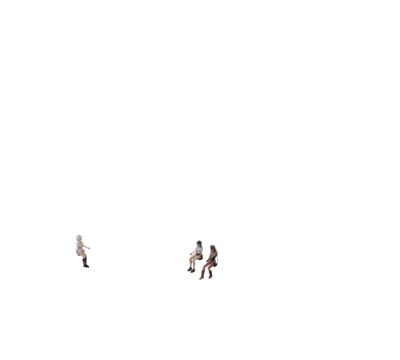
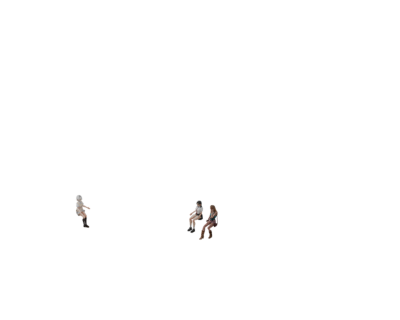
Chatka: domek na 3/4 v severnim rohu, kytky kolem, u zdi holka v tilku
Hrac: "zmensi domek a na usetrenem miste vysazej kytky okolo. za domek
kytky nesazej, domek i s holkou u dveri posunem smerem od lavicky".
Domek zmenseny na 0,75 (11 x 11 m, 12,4 m vysoky, dvere 2,5 m) a
posunuty do severniho rohu zadniho policka. Na uvolnenem miste vpredu
19 vyssich rostlin marihuany, ne za domkem, ne na cestu ke dverim a
k pate schodu, ne pred holku u zdi. Misto holky u zdi se bere z
brectanu na zdi, kytky se vyhybaji domku podle jeho vrcholu a paprsku
nahoru (schody, balkon, striska).

U zdi misto bile Galaxie Character Girl (hrac: "ke zdi dej jinou ne tu
colege, dej tam tu co chodi na jihozapadu. ta bila holka splyva se
zdi"), Galaxia stoji misto ni u branky. Obrazek je nizsi (400 x 320,
v 8x 800 x 640), rohy jsou jinde, zmenilo se vsech sest obrazku.

Claude-Session: https://claude.ai/code/session_01P6zYdmMEQjTTZJyV6Qb8Ch

Changed region(s): [[0.45, 0.625, 0.57, 0.7812], [0.18, 0.5938, 0.24, 0.75]]

diff --git a/chatka/render_chatka.py b/chatka/render_chatka.py
@@ -4,8 +4,10 @@
 # prilozenejma. chci tam hlavne tu holku co stoji u kufru dvanacetrojky bus", "velikost 1 policko ... muze to byt pres
 # dve policka nebo pres ctyri policka, to je jedno. ale holky prikladaci at usetrime Mb".
 # Domek: "A little happy hut" od Tigrana Safaryana (Sketchfab, CC BY 4.0, model/a_little_happy_hut.glb). Holky jsou jako
-# u sochy a u kufru 1203 dvakrat vetsi, domek je proto zvetseny tak, aby dvere (v modelu 76 jednotek) mely 3,35 m a holka
-# (College Girl 3,24 m) prosla; tim zabere cele zadni policko, vpredu je druhe policko s dvorkem.
+# u sochy a u kufru 1203 dvakrat vetsi, domek byl proto zvetseny tak, aby dvere (v modelu 76 jednotek) mely 3,35 m a holka
+# (College Girl 3,24 m) prosla; tim zabral cele zadni policko, vpredu je druhe policko s dvorkem. Od 3. 10. (hrac: "zmensi
+# domek a na usetrenem miste vysazej kytky okolo") je domek zmenseny na ZMENSENI (0,75, dvere 2,5 m), posunuty k severnimu
+# rohu a vpredu kolem nej jsou vyssi rostliny marihuany.
 # Souradnice jako ve hre: x k jihozapadu, y k jihovychodu, z nahoru, pocatek v severnim rohu pozemku (2 policka podel x:
 # x 0 az 2T, y 0 az T). Kamera, svetlo a slabe stiny jako u sochy (socha/render_socha.py).
 #   [ZIN=8] [SAMPLES=128] python3 render_chatka.py <vystupni adresar>      -> chatka[_stojici|_sedici]_zin4.png + .json
@@ -25,6 +27,8 @@ NAHLED = os.environ.get("NAHLED", "0") == "1"
 TU = os.path.dirname(os.path.abspath(__file__))
 HDRI = os.path.join(TU, "..", "glb", "GLB", "hdri", "snow.exr")
 DVERE_M, DVERE_J = 3.35, 76.0                  # vyska dveri v prizemi: chceme metry, v modelu jednotek
+ZMENSENI = float(os.environ.get("ZMENSENI", "0.75"))   # hrac 3. 10.: "zmensi domek" (dvere 3,35 m * 0,75 = 2,5 m)
+OKRAJ_D = 0.3                                  # zmenseny domek u severniho rohu: od zadnich hran pozemku
 os.makedirs(VYSTUP, exist_ok=True)
 
 def B(x, y, z=0.0):
@@ -117,7 +121,7 @@ meshe_d = [o for o in domek if o.type == 'MESH']
 bpy.context.view_layer.update()
 P = np.vstack([np.array([o.matrix_world @ v.co for v in o.data.vertices]) for o in meshe_d])
 mn_d, mx_d = P.min(axis=0), P.max(axis=0)
-S_D = DVERE_M / DVERE_J
+S_D = DVERE_M / DVERE_J * ZMENSENI
 stred_d = (mn_d + mx_d) / 2
 # otoceni o 90 st: dvere (stena -x modelu) k jihozapadu na dvorek, schody (strana -y modelu) k jihovychodu k divakovi
 obal = bpy.data.objects.new("domek", None); scene.collection.objects.link(obal)
@@ -129,8 +133,26 @@ bpy.context.view_layer.update()
 P = np.vstack([np.array([o.matrix_world @ v.co for v in o.data.vertices]) for o in meshe_d])
 # v souradnicich hry: x = -Blender y, y = Blender x
 hx0, hx1, hy0, hy1 = -P[:, 1].max(), -P[:, 1].min(), P[:, 0].min(), P[:, 0].max()
+# hrac: "domek i s holkou u dveri posunem smerem od lavicky na usetrene misto": k severnimu rohu, usetrene misto je pak
+# jen vpredu u jihozapadni a jihovychodni strany (tam kytky), vzadu nic
+POSUN_D = (OKRAJ_D - hx0, OKRAJ_D - hy0)
+obal.matrix_world = Matrix.Translation(B(POSUN_D[0], POSUN_D[1], 0.0)) @ obal.matrix_world
+bpy.context.view_layer.update()
+P = np.vstack([np.array([o.matrix_world @ v.co for v in o.data.vertices]) for o in meshe_d])
+hx0, hx1, hy0, hy1 = -P[:, 1].max(), -P[:, 1].min(), P[:, 0].min(), P[:, 0].max()
 print(f"domek: meritko {S_D:.5f} m/jednotku, x {hx0:.2f}..{hx1:.2f}, y {hy0:.2f}..{hy1:.2f}, vyska {P[:, 2].max():.2f} m", flush=True)
 DOMEK = list(meshe_d)
+def body_hry(o, z_max=None):
+    """vrcholy objektu v souradnicich hry (x, y, z), pripadne jen do vysky z_max"""
+    a = np.zeros(len(o.data.vertices) * 3); o.data.vertices.foreach_get("co", a)
+    Q = (np.c_[a.reshape(-1, 3), np.ones(len(a) // 3)] @ np.array(o.matrix_world).T)[:, :3]
+    Q = np.c_[-Q[:, 1], Q[:, 0], Q[:, 2]]
+    return Q if z_max is None else Q[Q[:, 2] < z_max]
+# misto holky u zdi: pred popinavymi rostlinami na jihozapadni zdi vpravo od dveri (sit "Ivy_", "Ivy 2" je vzadu),
+# 0,75 m pred listy u zeme, uprostred jejich sirky
+Q = body_hry([o for o in meshe_d if o.name.startswith("Ivy_")][0], 2.0)
+U_ZDI = (float(Q[:, 0].max()) + 0.75, float((Q[:, 1].min() + Q[:, 1].max()) / 2))
+print("holka u zdi", tuple(round(v, 2) for v in U_ZDI), flush=True)
 
 # ---------------------------------------------------------------- dvorek: uslapana zem, lavicky, neporadek
 X0 = T                                           # dvorek: x T az 2T, y 0 az T
@@ -216,7 +238,7 @@ sys.path.insert(0, os.path.join(TU, "..", "rostliny"))
 import rostliny as RO
 KOSATA = RO.nacti("cannabis_sativa_plant"); STIHLA = RO.nacti("cannabis_plant")
 rnd_p = random.Random(23)
-ROSTLINY = []
+ROSTLINY = []; PLOT_BODY = []
 def rada(body_od, body_do, krok, vynechat):
     """rostliny v rade od-do po kroku, indexy ve `vynechat` jsou diry"""
     (xa, ya), (xb, yb) = body_od, body_do
@@ -228,12 +250,59 @@ def rada(body_od, body_do, krok, vynechat):
         vys = rnd_p.uniform(1.0, 1.3) * K                     # nizke smrcky: skutecne 1 az 1,3 m
         druh = KOSATA if rnd_p.random() < 0.7 else STIHLA
         ROSTLINY.extend(RO.postav(druh[0], druh[1], Matrix.Translation(B(x, y, 0)), vys, 0.42 * K, rnd_p.random() * 6.3))
+        PLOT_BODY.append((x, y))
 OKRAJ = 1.0                                                   # stred rostliny od hrany pozemku (koruna 0,42*K = 0,84 m, posun 0,12)
 # jihovychodni hrana celeho pozemku (vpredu vpravo), jihozapadni hrana dvorku (vpredu vlevo), severozapadni hrana dvorku
 rada((OKRAJ + 0.4, T - OKRAJ), (2 * T - OKRAJ, T - OKRAJ), 1.45, {3, 11, 16})
 rada((2 * T - OKRAJ, OKRAJ), (2 * T - OKRAJ, T - OKRAJ - 1.0), 1.45, {4, 5})          # siroka dira = branka k dverim
 rada((X0 + 0.6, OKRAJ), (2 * T - OKRAJ - 1.0, OKRAJ), 1.45, {6})
-print("rostlin v plotu:", len(ROSTLINY) // max(1, len(KOSATA[0])), flush=True)
+print("rostlin v plotu:", len(PLOT_BODY), flush=True)
+
+# ---------------------------------------------------------------- kytky kolem zmenseneho domku
+# Hrac 3. 10.: "na usetrenem miste vysazej kytky okolo. za domek kytky nesazej". Rostliny marihuany jako v plotu, jen
+# vyssi (skutecne 1,1 az 1,7 m), na usetrenem miste pred jihozapadni a jihovychodni stranou domku: ne do domku a za nej,
+# ne ke zdem, schudkum a sloupkum, ne pod schody, balkon a strisku, ne na cestu od schudku ke dverim a od paty schodu
+# na balkon na dvorek a ne mezi kameru a holku u zdi.
+from mathutils import kdtree
+dum_zem = np.vstack([body_hry(o, 1.5)[::2, :2] for o in meshe_d])
+kd = kdtree.KDTree(len(dum_zem))
+for i, (x, y) in enumerate(dum_zem): kd.insert((x, y, 0.0), i)
+kd.balance()
+dg = bpy.context.evaluated_depsgraph_get()
+def nad_hlavou(x, y):
+    """jak vysoko je nad bodem neco z domku (schody, balkon, striska, strecha), jinak nekonecno"""
+    hit, loc, _, _, ob, _ = scene.ray_cast(dg, B(x, y, 0.05), Vector((0, 0, 1)))
+    return loc.z if hit and ob in meshe_d else float("inf")
+def z_puvodniho(x, y):
+    """bod domku v puvodni velikosti a poloze (do 3. 10.) -> na zmenseny a posunuty domek"""
+    return (C_D[0] + POSUN_D[0] + (x - C_D[0]) * ZMENSENI, C_D[1] + POSUN_D[1] + (y - C_D[1]) * ZMENSENI)
+ZED_X, ZED_Y = z_puvodniho(10.58, 9.5)                                        # jihozapadni zed a jihovychodni roh
+sx, sy0 = z_puvodniho(12.72, 3.5); _, sy1 = z_puvodniho(12.72, 6.25)          # schudky ke dverim (kraj, sirka)
+px_, py0 = z_puvodniho(14.18, 12.0); _, py1 = z_puvodniho(14.18, 14.5)       # pata schodu na balkon
+CESTY = [(sx - 0.3, T + 1.0, sy0 - 0.5, sy1 + 0.5), (px_ - 0.6, T + 1.0, py0 - 0.5, py1 + 0.5)]
+def pred_holkou(x, y):
+    """zakryla by rostlina holku u zdi? kamera je ve smeru +x +y, 30 st. nad zemi"""
+    dx, dy = x - U_ZDI[0], y - U_ZDI[1]
+    vpred, bok = (dx + dy) / math.sqrt(2), abs(dx - dy) / math.sqrt(2)
+    return math.hypot(dx, dy) < 1.3 or (0 < vpred < 6.0 and bok < 1.5)
+rnd_k = random.Random(31)
+KYTKY = []
+for i in range(int(T / 1.3) + 1):
+    for j in range(int(T / 1.3) + 1):
+        x, y = 0.7 + i * 1.3 + rnd_k.uniform(-0.25, 0.25), 0.7 + j * 1.3 + rnd_k.uniform(-0.25, 0.25)
+        vys = rnd_k.uniform(1.1, 1.7) * K
+        if x > T - 0.35 or y > T - OKRAJ - 1.35: continue                     # jen zadni policko, ne do plotu
+        if x < ZED_X + 0.3 and y < ZED_Y + 0.3: continue                        # v domku nebo za nim
+        if kd.find((x, y, 0.0))[2] < 0.8: continue                             # ke zdem, schudkum, sloupkum
+        if any(a <= x <= b and c <= y <= d for a, b, c, d in CESTY): continue
+        if pred_holkou(x, y): continue
+        if min(math.hypot(x - qx, y - qy) for qx, qy in PLOT_BODY) < 1.3: continue
+        if min(nad_hlavou(x + ox, y + oy) for ox, oy in ((0, 0), (0.6, 0), (-0.6, 0), (0, 0.6), (0, -0.6))) < vys + 0.3:
+            continue                                                            # pod schody, balkonem, striskou
+        druh = KOSATA if rnd_k.random() < 0.6 else STIHLA
+        ROSTLINY.extend(RO.postav(druh[0], druh[1], Matrix.Translation(B(x, y, 0)), vys, 0.36 * K, rnd_k.random() * 6.3))
+        KYTKY.append((round(x, 2), round(y, 2)))
+print("kytek kolem domku:", len(KYTKY), KYTKY, flush=True)
 
 # ---------------------------------------------------------------- holky (prikladaci vrstvy)
 sys.path.insert(0, os.path.join(TU, "..", "postavy"))
@@ -251,16 +320,17 @@ def na_lavicku(meshe, kotva, lav, u):
     v = 0.05
     do_sceny(meshe, kotva, x + (u * -s + v * -c) * K, y + (u * c + v * -s) * K, 0.47 * K, uhel)
 STOJICI, SEDICI = [], []
-# stojici: holka od kufru 1203 (College Girl, ruce podel tela) na dvorku, Character Girl s kabelkou prichazi brankou
+# stojici: holka od kufru 1203 (College Girl, ruce podel tela) na dvorku. U zdi domku pred popinavymi rostlinami vpravo
+# od dveri (hrac 3. 10.: "jeste jednu ... za severovychodni lavicku ke dverim domku", "pred popinavy rostliny na zdi
+# ji postav") jde Character Girl s kabelkou, celem k divakovi (hrac: "ke zdi dej jinou ne tu colege, dej tam tu co chodi
+# na jihozapadu. ta bila holka splyva se zdi"). Bila Galaxia (ruce podel tela jako u automatu) stoji misto ni u branky
+# na hline.
 cg = PO.nacti_stojici("college_girl", 1.62, "ruce_dolu")
 do_sceny(cg, Vector((0, 0, 0)), X0 + 2.6, 6.2, 0.012, math.radians(-35)); STOJICI += cg
 ch = PO.nacti_stojici("character_people_girl_001", 1.68)
-do_sceny(ch, Vector((0, 0, 0)), X0 + 9.8, 7.4, 0.012, math.radians(-200)); STOJICI += ch     # = 160 st, ale cislo jako predtim
-# treti stojici, hrac 3. 10.: "jeste jednu ... na druhe policko k domku za severovychodni lavicku ke dverim domku",
-# "pred popinavy rostliny na zdi ji postav". Galaxia jako u automatu (ruce podel tela) na zadnim policku pred
-# brectanem na jihozapadni zdi vpravo od dveri (zed x 10,58, brectan u zeme y 6,8 az 9,4), celem k dvorku
+do_sceny(ch, Vector((0, 0, 0)), U_ZDI[0], U_ZDI[1], 0.0, math.radians(45)); STOJICI += ch
 ga_st = PO.nacti_stojici("galaxia_anime_girl", 1.58, "ruce_dolu")
-do_sceny(ga_st, Vector((0, 0, 0)), 11.5, 8.1, 0.0, math.radians(25)); STOJICI += ga_st
+do_sceny(ga_st, Vector((0, 0, 0)), X0 + 9.8, 7.4, 0.012, math.radians(120)); STOJICI += ga_st
 # sedici: College Girl a Character Girl na lavicce u domku, Galaxia na druhe (zapadni), vsechny celem od operadla
 cg2, k2 = PO.sedici("college_girl"); na_lavicku(cg2, k2, LAV_1, -0.42); SEDICI += cg2
 ch2, kc = PO.sedici("character_people_girl_001"); na_lavicku(ch2, kc, LAV_1, 0.4); SEDICI += ch2

diff --git a/chatka/README.md b/chatka/README.md
@@ -9,13 +9,16 @@ to být přes dvě políčka nebo přes čtyři políčka, to je jedno. ale holk
   https://sketchfab.com/3d-models/a-little-happy-hut-045afe84e4c04400a34f0babab201378 ), poslal ho hráč 3. 10.
   V gitu není (11 MB), patří do `model/a_little_happy_hut.glb` (md5 `d6cc13aa08652713f703ff08ad84a517`). Domek se
   nemění, jen se zvětší a otočí: dveře na dvorek, schody na balkon k divákovi.
-- **Proč 2 políčka:** holky jsou jako u sochy a u kufru 1203 dvakrát větší (College Girl má 3,24 m). Aby holka prošla
-  dveřmi, mají dveře 3,35 m. Domek pak má 14,7 × 14,6 m a 16,6 m na výšku, tedy sám zabere celé jedno políčko.
-  Lavičky a nepořádek jsou na druhém políčku (vpředu vlevo), to je dvorek. Kdyby bylo všechno na jednom políčku,
-  musel by být domek menší a holky by byly větší než dveře.
-- **Dvorek:** ušlapaná hlína, dvě lavičky jako u sochy (dvakrát větší), nepořádek: dvě bedny na sobě, převrhlá
-  bedna, hromada prken, dvě pneumatiky, kyblík a asi sto odpadků (papíry, plechovky, lahve, kelímky, sáčky, zelené
-  balíčky).
+- **Velikost:** holky jsou jako u sochy a u kufru 1203 dvakrát větší (College Girl má 3,24 m). Domek byl nejdřív tak
+  velký, aby holka prošla dveřmi (dveře 3,35 m, domek 14,7 × 14,6 m, 16,6 m na výšku, celé jedno políčko). Hráč pak
+  chtěl menší, takže je zmenšený na tři čtvrtiny: 11 × 11 m, 12,4 m na výšku, dveře 2,5 m. Stojí v severním rohu
+  zadního políčka, 0,3 m od zadních hran.
+- **Kytky kolem domku:** 19 vyšších rostlin marihuany (stejné jako v plotu, skutečně 1,1 až 1,7 m, na obrázku dvakrát
+  větší) na uvolněném místě před jihozápadní a jihovýchodní stranou domku. Za domkem nejsou, nestojí na cestě od
+  schůdků ke dveřím ani od paty schodů na balkon a nezakrývají holku u zdi.
+- **Dvorek** (přední políčko): ušlapaná hlína, dvě lavičky jako u sochy (dvakrát větší), nepořádek: dvě bedny na sobě,
+  převrhlá bedna, hromada prken, dvě pneumatiky, kyblík a asi sto odpadků (papíry, plechovky, lahve, kelímky, sáčky,
+  zelené balíčky).
 - **Plot:** 31 nízkých rostlin marihuany místo plotu (Cannabis Sativa plant a Cannabis Plant jako u sochy, skutečně
   1 až 1,3 m, na obrázku dvakrát větší) podél přední pravé hrany celého pozemku a kolem dvorku. Sem tam je díra,
   vlevo široká jako branka k dveřím.
@@ -25,25 +28,26 @@ to být přes dvě políčka nebo přes čtyři políčka, to je jedno. ale holk
 
 | soubor | co to je |
 |---|---|
-| `chatka_zin4.png` | chatka bez holek, 400 × 360 px, 32 bpp s průhledností, přiblížení 4× |
+| `chatka_zin4.png` | chatka bez holek, 400 × 320 px, 32 bpp s průhledností, přiblížení 4× |
 | `chatka_stojici_zin4.png` | přikládací vrstva se stojícími holkami, stejně velká, jinde průhledná |
 | `chatka_sedici_zin4.png` | přikládací vrstva se sedícími holkami |
-| `chatka_zin8.png`, `chatka_stojici_zin8.png`, `chatka_sedici_zin8.png` | totéž v 8× (jen naše hra, `zin8`), 800 × 720 px, přesně dvojnásobek 4× |
+| `chatka_zin8.png`, `chatka_stojici_zin8.png`, `chatka_sedici_zin8.png` | totéž v 8× (jen naše hra, `zin8`), 800 × 640 px, přesně dvojnásobek 4× |
 | `*.json` | rohy pozemku na obrázku (`rohy`), počet políček (`policek`: 2 podél x, 1 podél y), u vrstev i `holky_obdelnik` |
 | `nahled_ve_hre.png` | chatka se stojícími holkami ve fotce ze zkušební hry (políčka 45–46 × 16) |
 | `animace_ve_hre.gif` | totéž, střídá se bez holek, stojící a sedící |
 
-- **Rohy pozemku ve 4×:** sever (264, 160), východ (392, 224), západ (8, 288), jih (136, 352). V 8× je všechno
-  dvakrát: (528, 320), (784, 448), (16, 576), (272, 704).
-- Pozemek jsou 2 políčka podél x (k jihozápadu) a 1 podél y. Zadní políčko (u severního rohu) je domek, přední
-  (u západního rohu) dvorek.
+- **Rohy pozemku ve 4×:** sever (264, 120), východ (392, 184), západ (8, 248), jih (136, 312). V 8× je všechno
+  dvakrát: (528, 240), (784, 368), (16, 496), (272, 624).
+- Pozemek jsou 2 políčka podél x (k jihozápadu) a 1 podél y. Zadní políčko (u severního rohu) je domek s kytkami,
+  přední (u západního rohu) dvorek.
 - Render 2 : 1, políčko 256 × 128 px (ve 4×), severní roh na celém pixelu dělitelném 4, jako gymnázium a pole.
 
 ## Holky (přikládací vrstvy)
 
-- **Stojící:** holka od kufru 1203 busu (College Girl, ruce podél těla) stojí na dvorku, holka v tyrkysovém tílku
-  s kabelkou (Character Girl) jde od branky k domku a bělovlasá Galaxia (ruce podél těla jako u automatu) stojí na
-  políčku s domkem za lavičkou u domku, vpravo od schůdků ke dveřím, před popínavými rostlinami na zdi.
+- **Stojící:** holka od kufru 1203 busu (College Girl, ruce podél těla) stojí na dvorku. Holka v tyrkysovém tílku
+  s kabelkou (Character Girl) jde od zdi domku: stojí za lavičkou u domku, vpravo od schůdků ke dveřím, před
+  popínavými rostlinami na zdi, čelem k divákovi. Bělovlasá Galaxia (ruce podél těla jako u automatu) stojí u branky
+  na hlíně.
 - **Sedící:** College Girl a holka v tyrkysovém tílku na lavičce u domku, Galaxia na západní lavičce. Všechny sedí
   zády k opěradlu, čelem k dvorku.
 - **Ať se ušetří MB:** obrázek s domkem je jen jeden, holky jsou zvlášť. Vrstva má stejnou velikost a rohy jako
@@ -51,7 +55,7 @@ to být přes dvě políčka nebo přes čtyři políčka, to je jedno. ale holk
   rostlina, je z vrstvy vyříznuté, takže se vrstva jen položí navrch obrázku s domkem.
 - Holky nemají stín: ten by musel být v obrázku s domkem, kde holky nejsou.
 - `holky_obdelnik` v JSONu říká, kde ve vrstvě holky jsou (vlevo, nahoře, vpravo, dole), kdyby hra chtěla vrstvu
-  oříznout. Ve 4×: stojící [108, 209, 240, 300], sedící [75, 234, 219, 281].
+  oříznout. Ve 4×: stojící [110, 150, 245, 259], sedící [75, 194, 219, 241].
 
 ## Kontrola
 
@@ -65,7 +69,8 @@ to být přes dvě políčka nebo přes čtyři políčka, to je jedno. ale holk
 
 1. Model do `model/a_little_happy_hut.glb` (ze Sketchfabu, odkaz výš).
 2. `python3 render_chatka.py <adresář>` (4×, asi minuta) a `ZIN=8 python3 render_chatka.py <adresář>` (8×, asi dvě
-   minuty). `SAMPLES=32` na zkoušku, `NAHLED=1` rychlý náhled bez Cycles.
+   minuty). `SAMPLES=32` na zkoušku, `NAHLED=1` rychlý náhled bez Cycles. `ZMENSENI` je velikost domku proti
+   původní (teď 0,75); kytky, holka u zdi a cesty se podle ní posunou samy.
 3. Náhled ve hře: `python3 ../hra/nahled_ve_hre.py <výstup.png> chatka_zin4.png@45,16` (s holkami nejdřív položit
    vrstvu na obrázek s domkem a vedle dát kopii JSONu).
 
@@ -77,9 +82,19 @@ postav“*.
 
 - **Galaxia na západní lavičce** seděla čelem k opěradlu (nohy za ním zakryté). Chyba byla ve skriptu: postavy se
   otáčely na opačnou stranu. U lavičky u domku to nebylo poznat, protože míří přesně k jihozápadu. Opraveno, teď sedí
-  čelem k dvorku. Stojící holky mají úhly upravené tak, aby stály stejně jako předtím.
-- **Třetí stojící holka:** Galaxia stojí na políčku s domkem, necelý metr od jihozápadní zdi těsně před
-  popínavými rostlinami (u země zabírají 2,6 m zdi mezi schůdky a rohem domku), čelem k dvorku.
-- Obrázek s domkem (`chatka_zin4.png`, `chatka_zin8.png`) je beze změny, bit po bitu stejný. Změnily se jen obě
-  vrstvy s holkami ve 4× i 8×: ve stojící přibyla Galaxia (dvě původní holky stojí na místě), v sedící je otočená
-  Galaxia (dvě holky na lavičce u domku jsou stejné). Nic nepřečuhuje, 8× zmenšené na půl odpovídá 4×.
+  čelem k dvorku.
+- **Třetí stojící holka** u zdi před popínavými rostlinami byla nejdřív Galaxia (viz další oddíl).
+
+## Menší domek s kytkami a jiná holka u zdi (3. 10.)
+
+Hráč: *„teď zmenši domek a na ušetřeném místě vysázej kytky okolo. za domek kytky nesázej, domek i s holkou u dveří
+posunem směrem od lavičky na ušetřené místo. ke zdi dej jinou ne tu colege, dej tam tu co chodí na jihozapadu. ta bílá
+holka splývá se zdí“*.
+
+- Domek je zmenšený na tři čtvrtiny a posunutý dozadu do severního rohu, dál od lavičky. Uvolněné místo je vpředu
+  u jihozápadní a jihovýchodní strany a jsou tam kytky (rostliny marihuany), za domkem žádné.
+- U zdi před popínavými rostlinami stojí místo bílé Galaxie holka v tyrkysovém tílku, která chodila na jihozápadě
+  u branky. Posunula se s domkem, stojí zase těsně před rostlinami na zdi.
+- Galaxia stojí na jejím místě u branky, na hnědé hlíně nesplývá.
+- Změnilo se všechno: obrázek s domkem je nižší (400 × 320 místo 400 × 360, v 8× 800 × 640), rohy v JSONu jsou jinde
+  (o 40 px výš ve 4×) a obě vrstvy s holkami jsou nové.

diff --git a/AUTORI-MODELU.md b/AUTORI-MODELU.md
@@ -345,11 +345,11 @@ RZD livery: textures from "Teplovoz-m62 РЖД" by Leafia dev.
   https://sketchfab.com/3d-models/a-little-happy-hut-045afe84e4c04400a34f0babab201378 , licence **CC BY 4.0**
   (podle metadat v souboru). Poslal ho hráč 3. 10. v chatu, v gitu není (`chatka/model/`, 11 MB).
 - **Holky** v přikládacích vrstvách (`chatka/chatka_stojici_zin*.png`, `chatka/chatka_sedici_zin*.png`): College Girl
-  (Rotmill) stojí na dvorku a sedí na lavičce, Character People Girl 001 (kiemtruongkts) jde od branky a sedí na
-  lavičce, Galaxia anime girl (Tatenashi) stojí před popínavými rostlinami na zdi domku a sedí na západní lavičce.
+  (Rotmill) stojí na dvorku a sedí na lavičce, Character People Girl 001 (kiemtruongkts) jde od zdi domku (před
+  popínavými rostlinami) a sedí na lavičce, Galaxia anime girl (Tatenashi) stojí u branky a sedí na západní lavičce.
   Všechny CC BY 4.0, z `postavy/` jako u sochy.
-- **Plot:** Cannabis Sativa plant (Zbrojmistrz) a Cannabis Plant (streetpharmacy), CC BY 4.0, z `rostliny/` jako
-  u sochy.
+- **Plot a kytky kolem domku:** Cannabis Sativa plant (Zbrojmistrz) a Cannabis Plant (streetpharmacy), CC BY 4.0,
+  z `rostliny/` jako u sochy.
 - Dvorek (hlína, lavičky, bedny, prkna, pneumatiky, kyblík, odpadky) je vlastní ze skriptu `chatka/render_chatka.py`.
 
 Uvedení pro hru:
@@ -369,6 +369,6 @@ Plants: "Cannabis Sativa plant" by Zbrojmistrz
 "Cannabis Plant" by streetpharmacy
     https://sketchfab.com/3d-models/cannabis-plant-79fe78fd6c6a426b8584115e772a5818
 All licensed under CC BY 4.0, https://creativecommons.org/licenses/by/4.0/
-Changes: the hut scaled and turned, a yard with benches, junk and a fence of plants added, the figures posed
+Changes: the hut scaled and turned, a yard with benches, junk, plants and a fence of plants added, the figures posed
 (standing, sitting) and scaled, plants recoloured and scaled, rendered into the sprite.
 ```

diff --git a/hra/zarovnani-budov/ODPOVED-PRO-HRU.md b/hra/zarovnani-budov/ODPOVED-PRO-HRU.md
@@ -192,3 +192,16 @@ k domku za severovýchodní lavičku ke dveřím domku“*, *„před popínavý
   s domkem je bit po bitu stejný, rohy i velikost taky.
 - Ve stojící vrstvě přibyla Galaxia na zadním políčku před zdí domku (popínavé rostliny vpravo od dveří), v sedící
   vrstvě sedí Galaxia na západní lavičce čelem k dvorku (předtím seděla čelem k opěradlu).
+
+## Chatka: menší domek s kytkami, jiné rohy (3. 10.)
+
+Hráč: *„teď zmenši domek a na ušetřeném místě vysázej kytky okolo. za domek kytky nesázej, domek i s holkou u dveří
+posunem směrem od lavičky na ušetřené místo. ke zdi dej jinou ne tu colege, dej tam tu co chodí na jihozapadu“*.
+
+- **Změnilo se všech šest obrázků chatky** (`chatka/chatka_zin4.png`, `chatka_stojici_zin4.png`,
+  `chatka_sedici_zin4.png` a totéž `_zin8`). Prosím rozkrájet znovu.
+- **Obrázek je nižší a rohy jsou jinde:** 400 × 320 (8× 800 × 640), rohy ve 4× sever (264, 120), východ (392, 184),
+  západ (8, 248), jih (136, 312), v 8× dvojnásobek. Pozemek je pořád 2 × 1 políčko, jen domek je menší.
+- Domek je zmenšený na tři čtvrtiny a stojí v severním rohu zadního políčka, kolem něj vpředu jsou rostliny
+  marihuany. U zdi domku stojí holka v tyrkysovém tílku (Character Girl), Galaxia je místo ní u branky.
+- `holky_obdelnik` ve 4×: stojící [110, 150, 245, 259], sedící [75, 194, 219, 241]. Nic nepřečuhuje.
